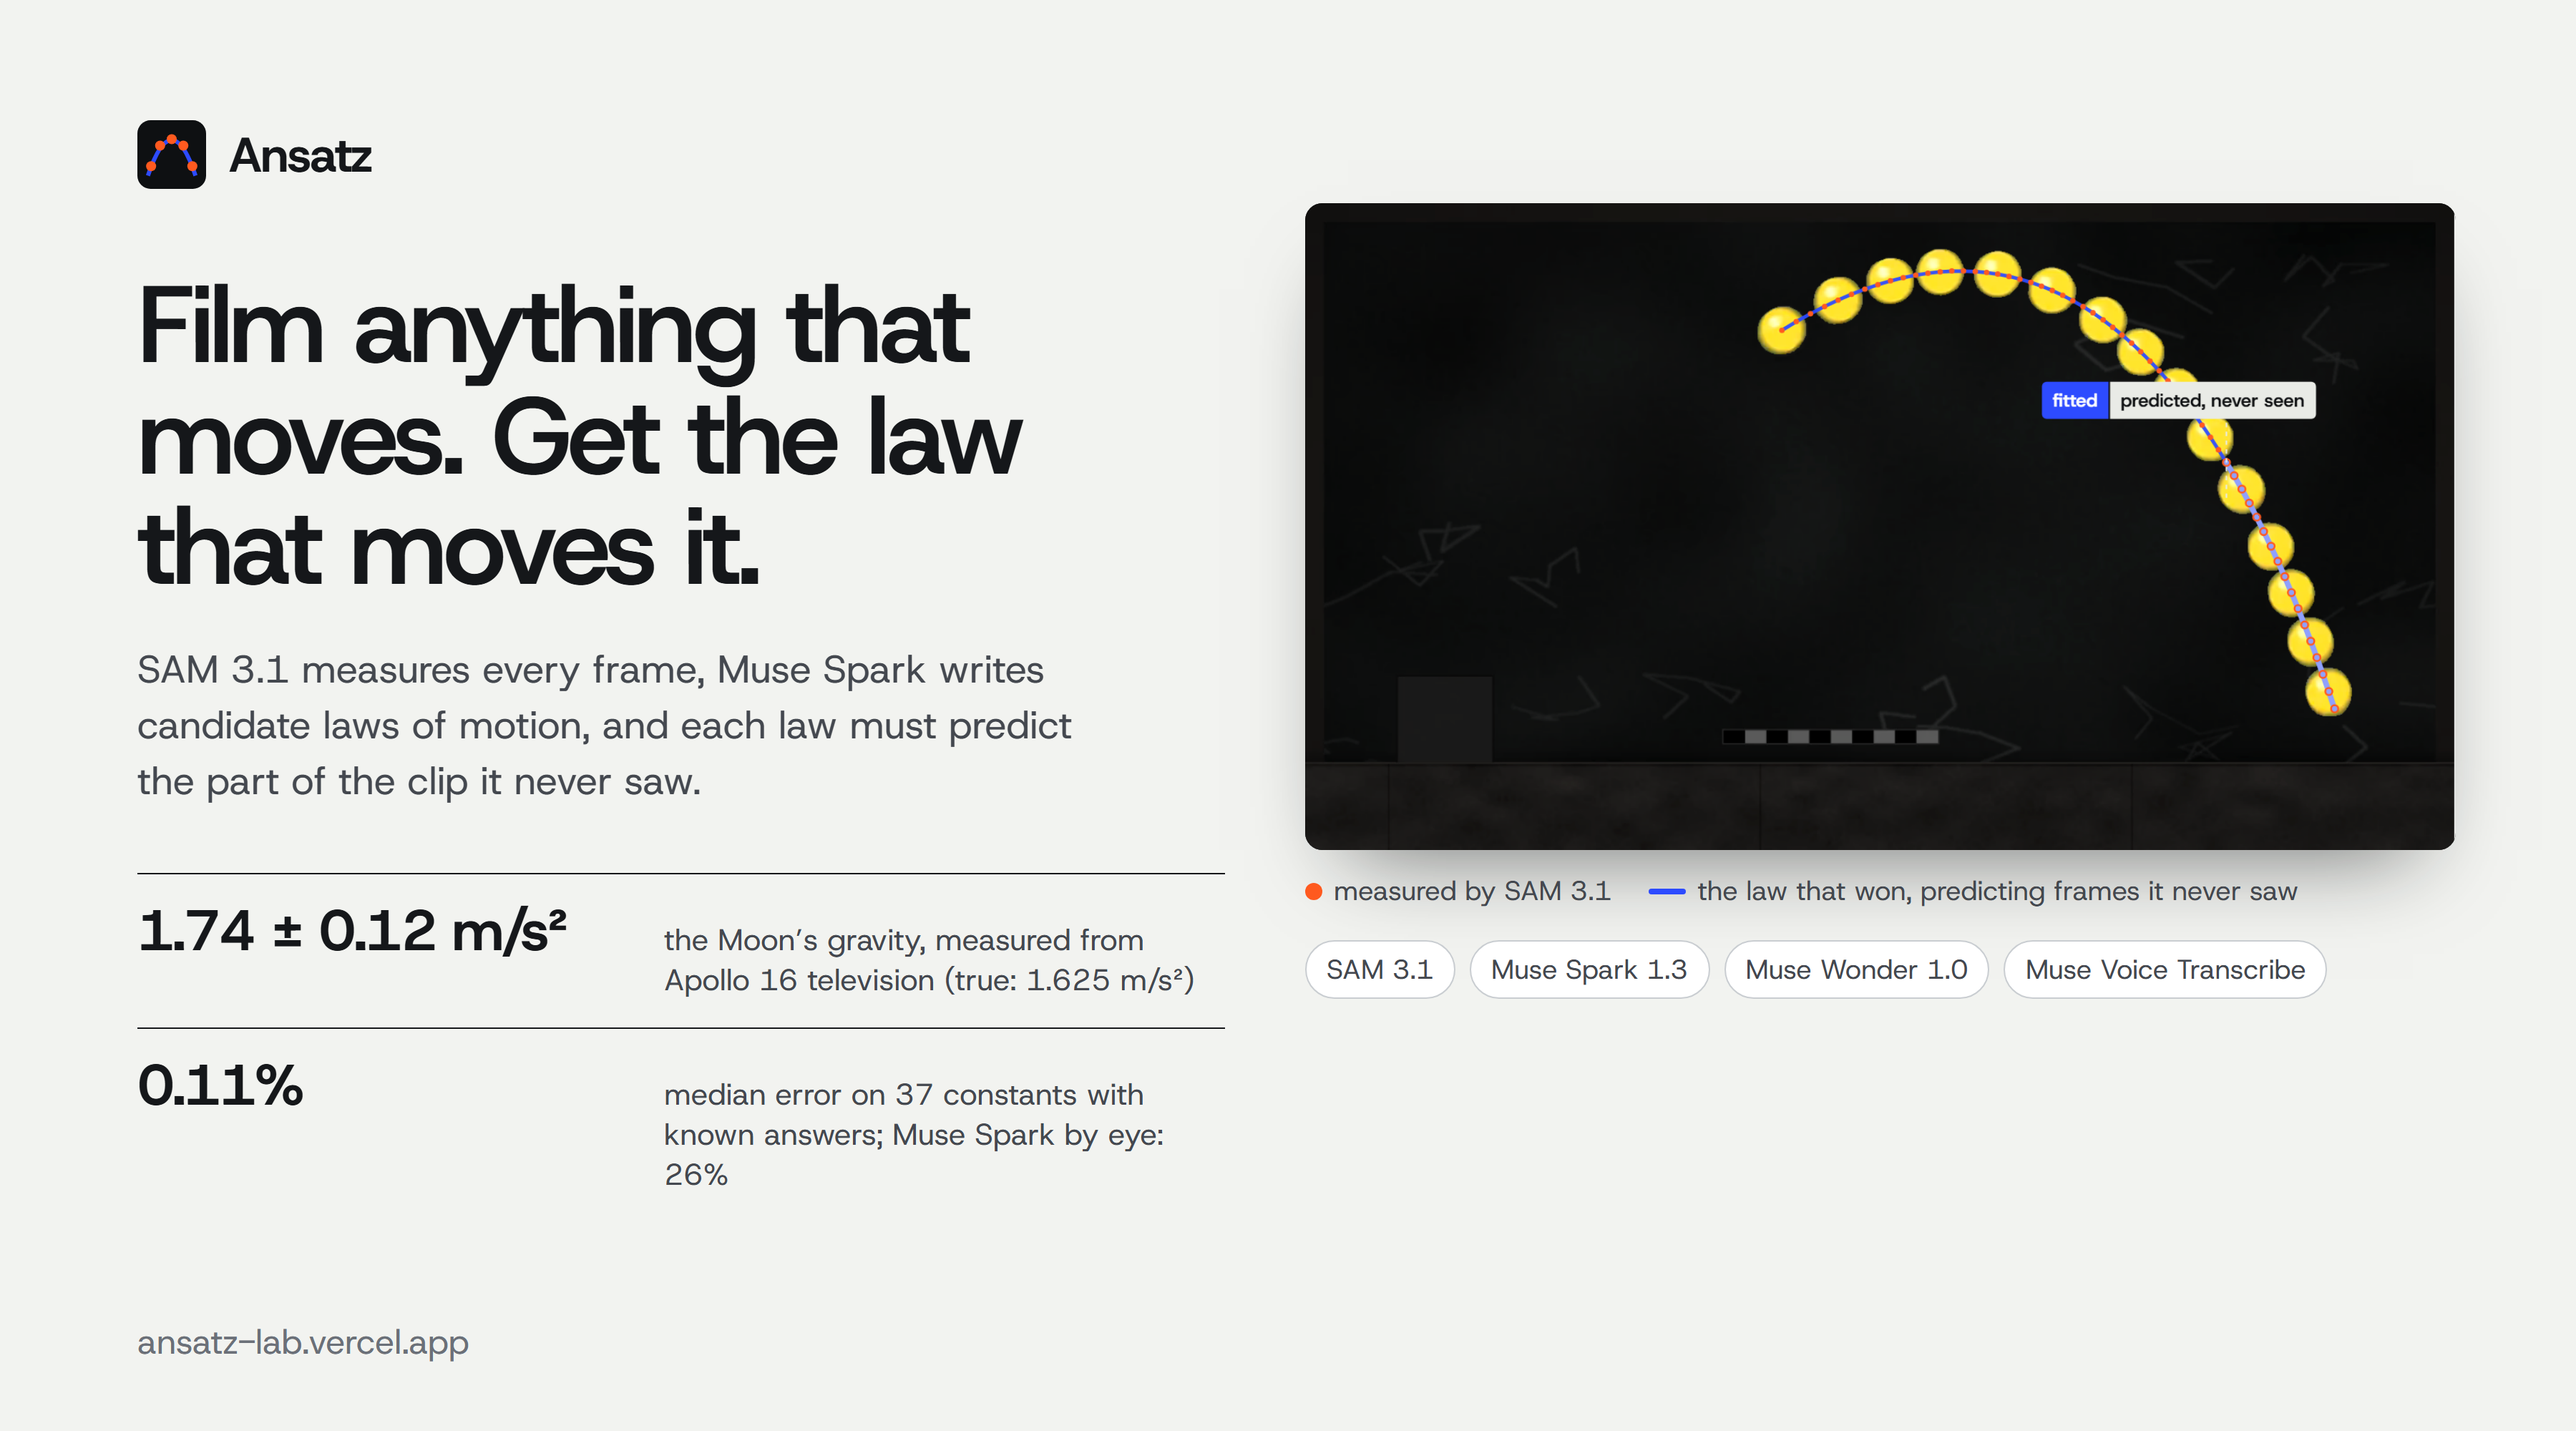
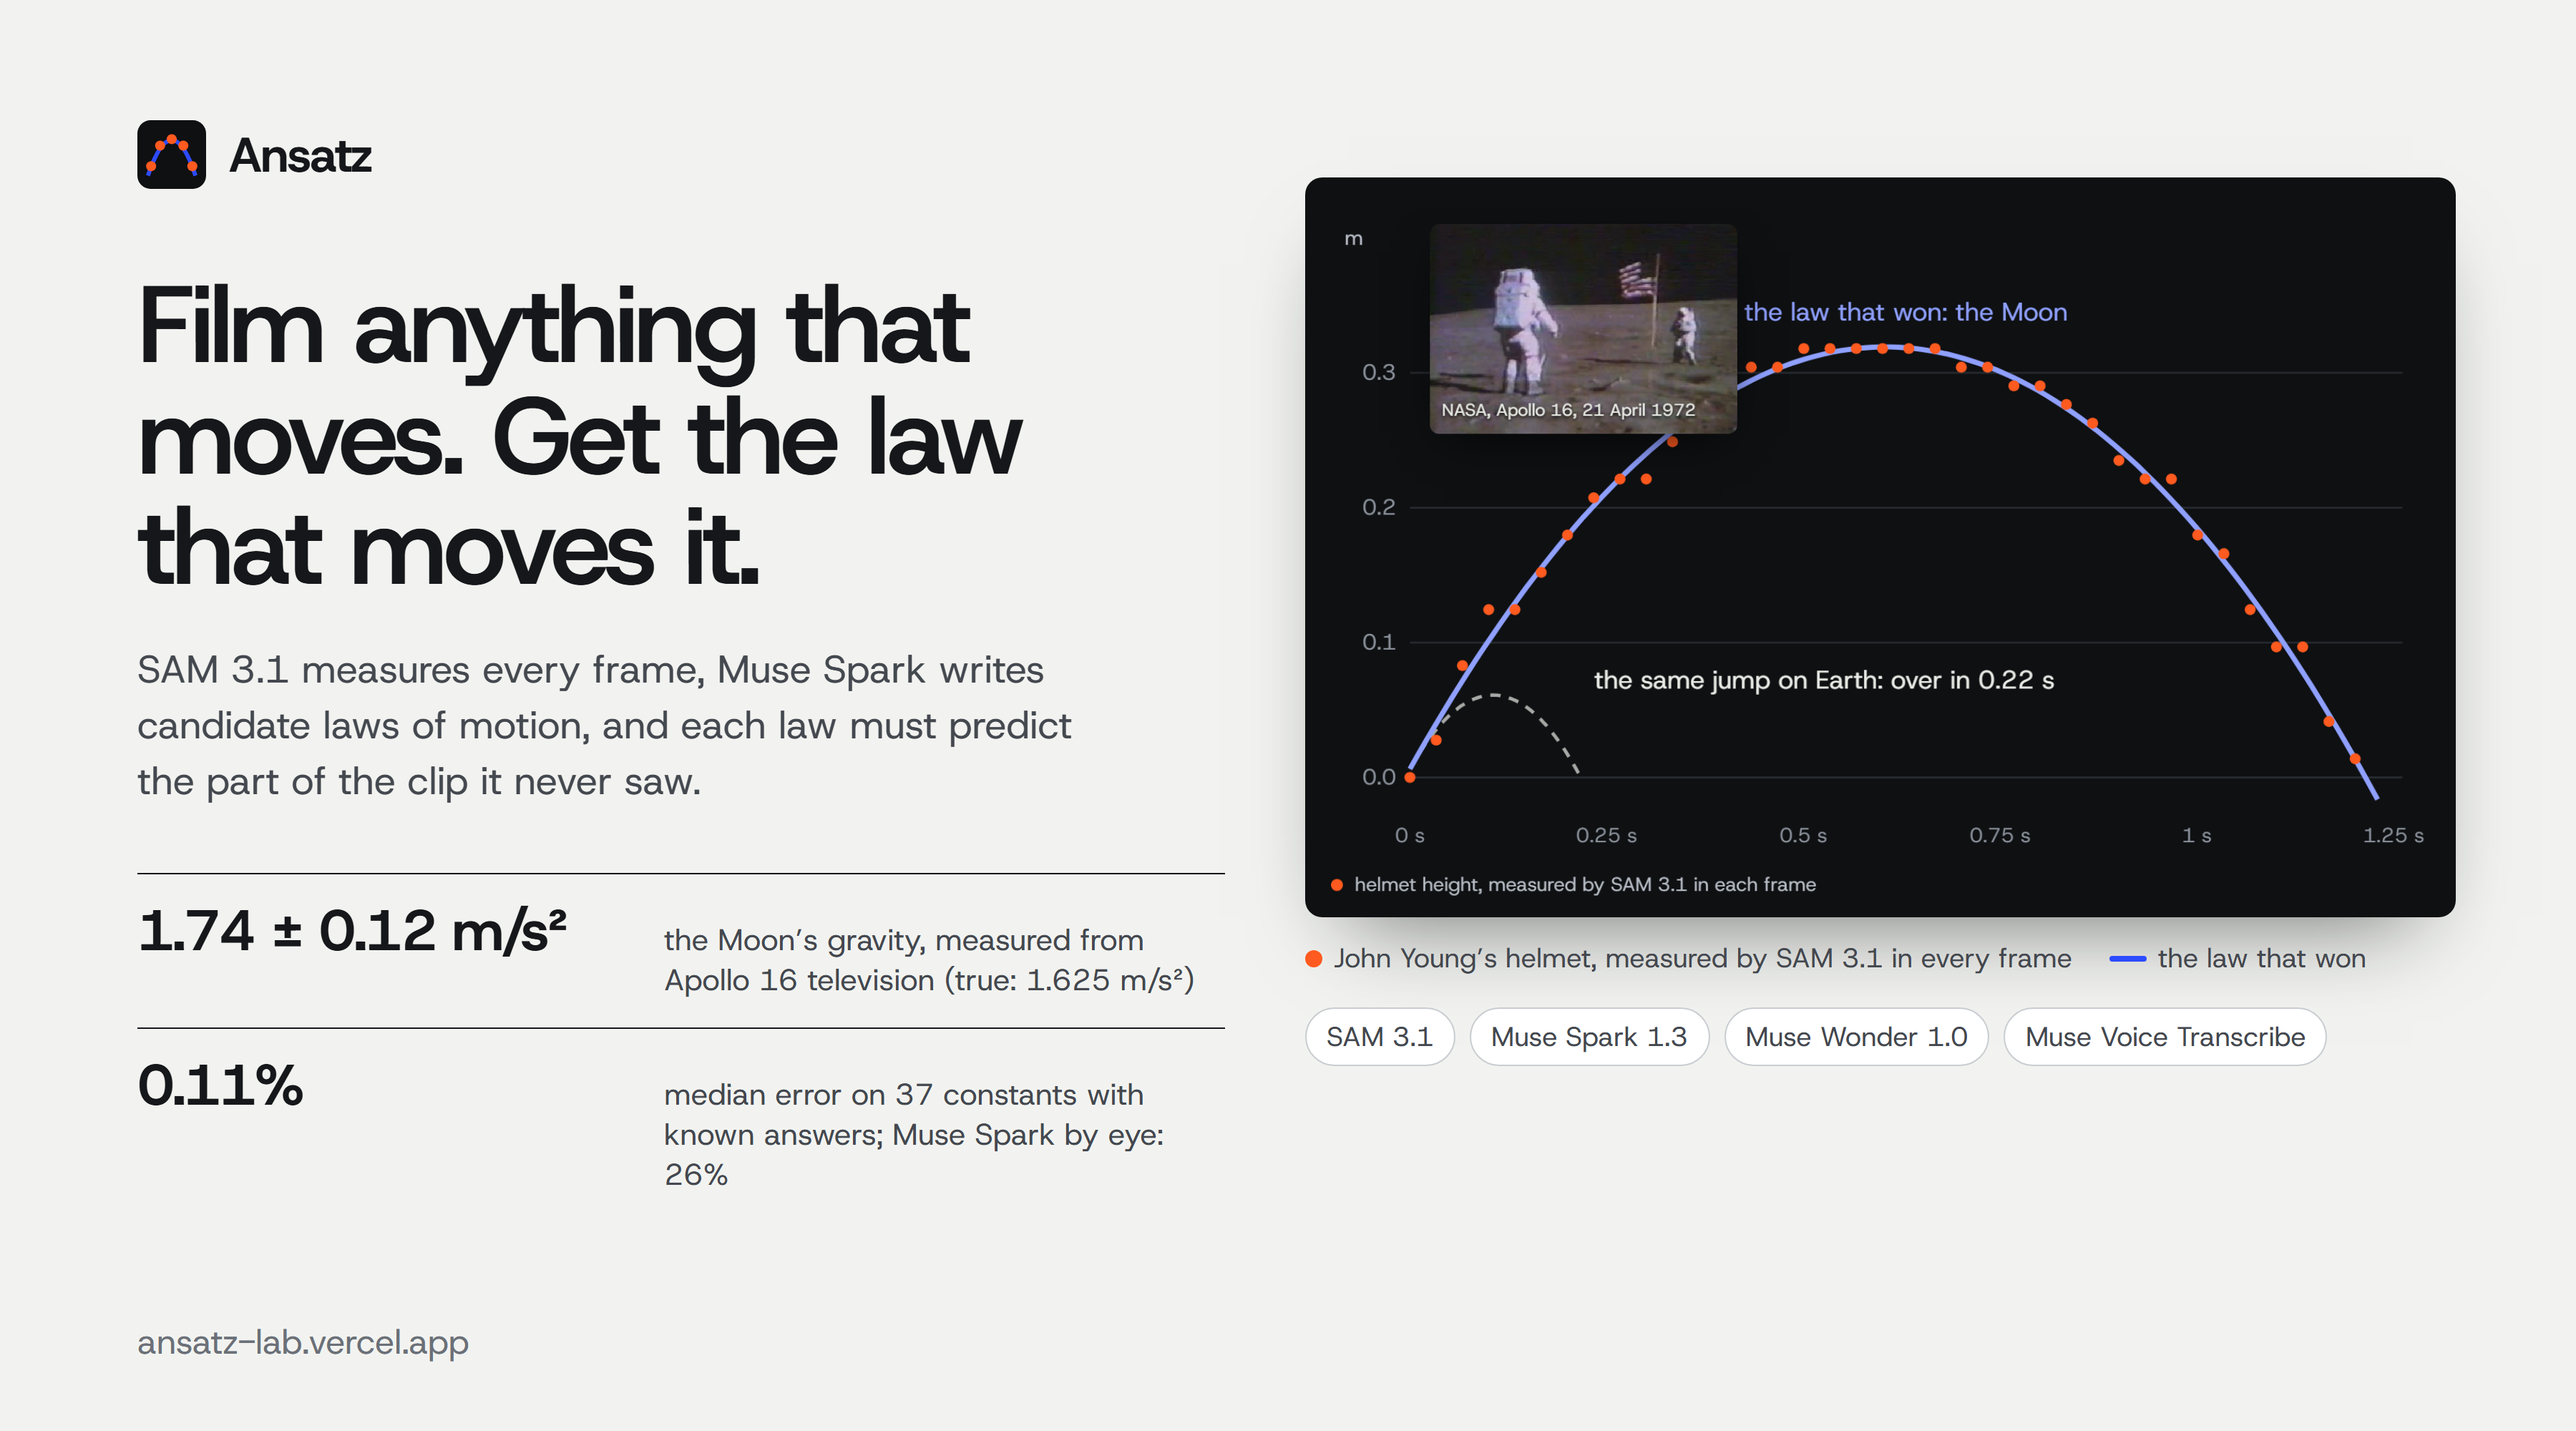
Moon cover and share image; health probes each model; slow-motion card leads with the catch

diff --git a/app/api/health/route.ts b/app/api/health/route.ts
@@ -4,16 +4,34 @@ import { usageToday } from "@/lib/limits";
 export const runtime = "nodejs";
 export const dynamic = "force-dynamic";
 
+const USED = ["sam-3.1", "muse-spark-1.3", "muse-wonder-1.0", "muse-voice-transcribe-1.0"];
+let cached: { at: number; value: Record<string, string> } | null = null;
+
+/** Each model Ansatz uses, looked up one by one (the list endpoint has come back empty under load); cached 5 minutes. */
+async function modelStatus() {
+  if (cached && Date.now() - cached.at < 300_000) return cached.value;
+  const key = (process.env.META_API_KEY ?? "").trim();
+  const value: Record<string, string> = {};
+  await Promise.all(
+    USED.map(async (id) => {
+      for (let i = 0; i < 2; i++) {
+        const r = await fetch(`${META_BASE}/models/${id}`, { headers: { authorization: `Bearer ${key}` }, cache: "no-store", signal: AbortSignal.timeout(8000) }).catch(() => null);
+        if (r?.ok) {
+          value[id] = "available";
+          return;
+        }
+        value[id] = r ? `HTTP ${r.status}` : "unreachable";
+      }
+    }),
+  );
+  cached = { at: Date.now(), value };
+  return value;
+}
+
 /** What this deployment can reach right now: Meta's model list, storage, ffmpeg, today's usage. */
 export async function GET() {
   const out: Record<string, unknown> = { at: new Date().toISOString(), region: process.env.VERCEL_REGION ?? "local" };
-  try {
-    const r = await fetch(`${META_BASE}/models`, { headers: { authorization: `Bearer ${(process.env.META_API_KEY ?? "").trim()}` }, cache: "no-store", signal: AbortSignal.timeout(8000) });
-    const j = (await r.json().catch(() => ({}))) as { data?: { id: string }[]; error?: { message?: string } };
-    out.models = r.ok ? (j.data ?? []).map((m) => m.id) : { status: r.status, error: j.error?.message };
-  } catch (e) {
-    out.models = { error: (e as Error).message };
-  }
+  out.models = await modelStatus();
   try {
     out.usage = await usageToday();
     out.storage = "ok";

diff --git a/app/page.tsx b/app/page.tsx
@@ -132,7 +132,7 @@ export default async function Home() {
                     <div className={styles.cardEq}>
                       <Tex>{lawLatex(w.law)[lawLatex(w.law).length > 1 ? 1 : 0] ?? ""}</Tex>
                     </div>
-                    <p className={styles.cardFinding}>{e.finding}</p>
+                    <p className={styles.cardFinding}>{e.clock ? `Caught a clip in slow motion: gravity came out ${(1 / (e.clock.factor * e.clock.factor)).toFixed(3)} of Earth’s, so the clip plays about ${e.clock.factor.toFixed(1)}× slower than real life.` : e.headline ?? e.finding}</p>
                     <p className="small">{e.source.credit}</p>
                   </div>
                 </Link>
